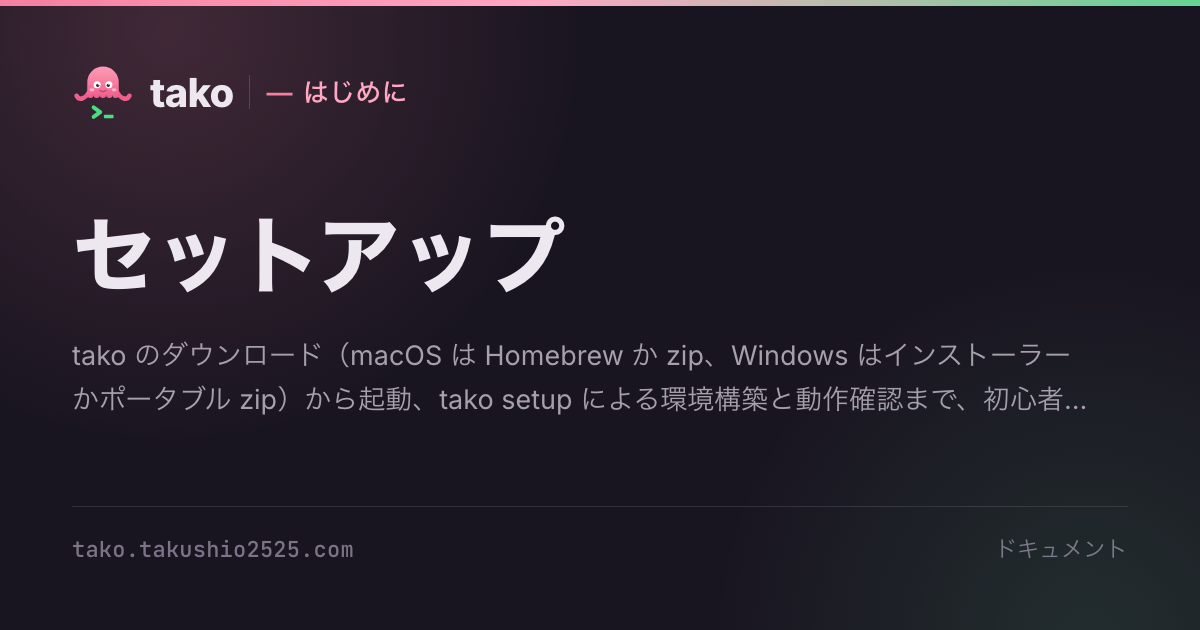
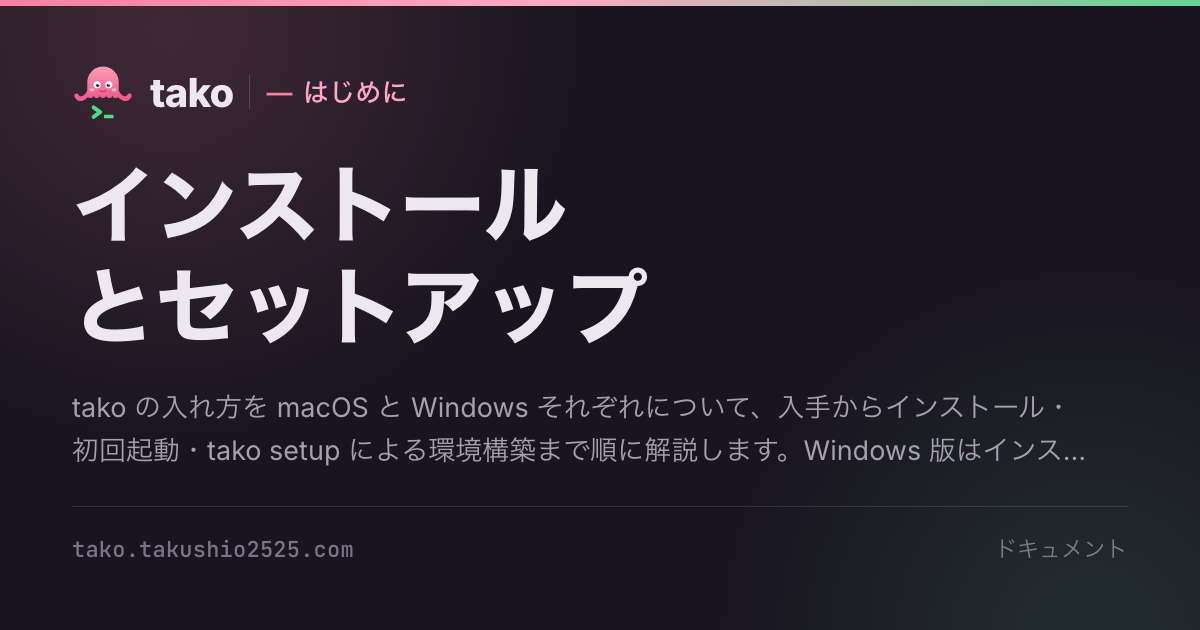
[ドキュメント] インストールのページを macOS / Windows のモーション解説で作り直す (#2053)
入手 → インストール → 初回起動 → セットアップを、macOS（5 手順）と Windows（7 手順:
Releases → SmartScreen の「詳細情報」→「実行」→ PATH 追加は既定オン → 完了 → 初回起動 →
setup）の画面の再現で見せる。Windows は対応表の数字（ビルド時に生成ページから読む）と
分野ごとの棒で「もう使える」を一目で示し、つまずきやすい点と、まだのもの・機能が落ちる
ものを対応表と突き合わせて書いた（対応へ上がるとビルドが落ちる）。「移植の途中」の
古い表現を直し、改題（インストールとセットアップ）に合わせて OG 画像を焼き直した。
他ページから張られたアンカー（#1-インストール / #3-tako-setup--… / #方法-c-… /
#アップデート）は残している。

Claude-Session: https://claude.ai/code/session_011JCEu5MYhRBBpGCj7gfJUH

Changed region(s): [[0.0617, 0.2714, 0.8942, 0.6635], [0.0617, 0.6937, 0.8942, 0.754]]

diff --git a/.agent/progress.md b/.agent/progress.md
@@ -59,3 +59,7 @@
 ## 2026-10-13（#1691: エディタで対応する括弧を強調 = 文字列・コメントを飛ばす探索・VS Code の採り方・応答の `document.bracket_match`）
 - `text_edit::brackets`（記号は `file_type` の `comment` 列 + 新しい `lexical` 列）・直後 → 直前・選択中と括弧に接しないときは採らない・種類ごとに数える。GUI は対の 2 文字に背景、CLI / MCP は編集系の応答（ツール増なし・カタログ +81 B）。A/B `TAKO_1691_LEGACY=1`
 - 実測: release 5,000 行で 1 打鍵中央値 0.156 ms・最大 0.268 ms。単体 22 本 + dispatch / MCP・注入 3 通り・visual `bracket-match` 新 OK / 旧 FAILED・実 CLI / MCP stdio の e2e
+
+## 2026-10-14（#2053 S1: docs サイトのスクロール連動モーションの土台・トップとインストールの作り直し）
+- `docs/src/components/motion/`（Scrolly / Autoplay と tako の画面の再現部品 24 個）+ `src/scripts/motion.ts`（IntersectionObserver + rAF・gzip 1.9KB・依存なし）。reduce では手順ごとの静止図。トップ（splash・場面 5 + ヒーロー）とインストール（macOS 5 手順 / Windows 7 手順・既知の制限は対応表と突き合わせてビルドで拘束）。全ページのヘッダーに「ダウンロード」
+- 手引きと S2 の構成案は `.agent/plans/2026-10-docs-motion.md`。Windows の数字は windows-support.md をビルド時に読む。Lighthouse（gzip 配信）トップ 60→57・インストール 57→57、実測 FCP は前後とも約 2.3 秒
